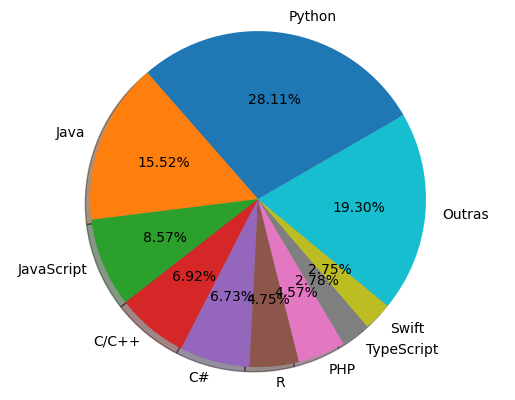
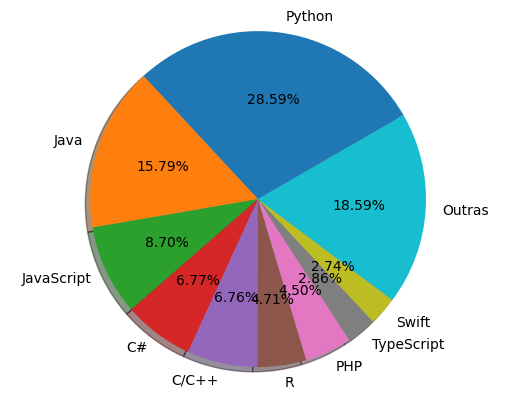
Build site at 2024-03-02 06:00:05 UTC

diff --git a/docs/popularidade/index.html b/docs/popularidade/index.html
@@ -35,7 +35,7 @@
 <meta name="twitter:card" content="summary" />
 <meta property="twitter:title" content="Introdução: python é popular!" />
 <script type="application/ld+json">
-{"@context":"https://schema.org","@type":"WebPage","author":{"@type":"Person","name":"Luiz T. F. Eleno"},"dateModified":"2023-11-02T03:00:07-03:00","description":"Computação Científica em Python - uma disciplina do curso de Engenharia Física da Escola de Engenharia de Lorena da Universidade de São Paulo - EEL USP","headline":"Introdução: python é popular!","url":"https://computeel.org/LOM3260/popularidade/"}</script>
+{"@context":"https://schema.org","@type":"WebPage","author":{"@type":"Person","name":"Luiz T. F. Eleno"},"dateModified":"2024-02-16T10:36:02-03:00","description":"Computação Científica em Python - uma disciplina do curso de Engenharia Física da Escola de Engenharia de Lorena da Universidade de São Paulo - EEL USP","headline":"Introdução: python é popular!","url":"https://computeel.org/LOM3260/popularidade/"}</script>
 <!-- End Jekyll SEO tag -->
 
   
@@ -1415,80 +1415,80 @@
     <tr>
       <td style="text-align: center">1</td>
       <td style="text-align: left">Python</td>
-      <td style="text-align: center">28.11</td>
-      <td style="text-align: center">+0.6</td>
+      <td style="text-align: center">28.59</td>
+      <td style="text-align: center">+1.0</td>
     </tr>
     <tr>
       <td style="text-align: center">2</td>
       <td style="text-align: left">Java</td>
-      <td style="text-align: center">15.52</td>
-      <td style="text-align: center">-1.0</td>
+      <td style="text-align: center">15.79</td>
+      <td style="text-align: center">-0.5</td>
     </tr>
     <tr>
       <td style="text-align: center">3</td>
       <td style="text-align: left">JavaScript</td>
-      <td style="text-align: center">8.57</td>
-      <td style="text-align: center">-1.0</td>
+      <td style="text-align: center">8.7</td>
+      <td style="text-align: center">-0.8</td>
     </tr>
     <tr>
       <td style="text-align: center">4</td>
-      <td style="text-align: left">C/C++</td>
-      <td style="text-align: center">6.92</td>
-      <td style="text-align: center">+0.1</td>
+      <td style="text-align: left">C#</td>
+      <td style="text-align: center">6.77</td>
+      <td style="text-align: center">-0.0</td>
     </tr>
     <tr>
       <td style="text-align: center">5</td>
-      <td style="text-align: left">C#</td>
-      <td style="text-align: center">6.73</td>
-      <td style="text-align: center">-0.1</td>
+      <td style="text-align: left">C/C++</td>
+      <td style="text-align: center">6.76</td>
+      <td style="text-align: center">-0.0</td>
     </tr>
     <tr>
       <td style="text-align: center">6</td>
       <td style="text-align: left">R</td>
-      <td style="text-align: center">4.75</td>
-      <td style="text-align: center">+0.7</td>
+      <td style="text-align: center">4.71</td>
+      <td style="text-align: center">+0.5</td>
     </tr>
     <tr>
       <td style="text-align: center">7</td>
       <td style="text-align: left">PHP</td>
-      <td style="text-align: center">4.57</td>
-      <td style="text-align: center">-0.6</td>
+      <td style="text-align: center">4.5</td>
+      <td style="text-align: center">-0.7</td>
     </tr>
     <tr>
       <td style="text-align: center">8</td>
       <td style="text-align: left">TypeScript</td>
-      <td style="text-align: center">2.78</td>
-      <td style="text-align: center">-0.0</td>
+      <td style="text-align: center">2.86</td>
+      <td style="text-align: center">+0.1</td>
     </tr>
     <tr>
       <td style="text-align: center">9</td>
       <td style="text-align: left">Swift</td>
-      <td style="text-align: center">2.75</td>
+      <td style="text-align: center">2.74</td>
       <td style="text-align: center">+0.5</td>
     </tr>
     <tr>
       <td style="text-align: center">10</td>
       <td style="text-align: left">Objective-C</td>
-      <td style="text-align: center">2.37</td>
+      <td style="text-align: center">2.4</td>
       <td style="text-align: center">+0.1</td>
     </tr>
     <tr>
       <td style="text-align: center">11</td>
       <td style="text-align: left">Rust</td>
-      <td style="text-align: center">2.23</td>
+      <td style="text-align: center">2.36</td>
       <td style="text-align: center">+0.3</td>
     </tr>
     <tr>
       <td style="text-align: center">12</td>
       <td style="text-align: left">Go</td>
-      <td style="text-align: center">2.04</td>
-      <td style="text-align: center">+0.1</td>
+      <td style="text-align: center">2.06</td>
+      <td style="text-align: center">+0.2</td>
     </tr>
     <tr>
       <td style="text-align: center">13</td>
       <td style="text-align: left">Kotlin</td>
-      <td style="text-align: center">1.75</td>
-      <td style="text-align: center">-0.1</td>
+      <td style="text-align: center">1.9</td>
+      <td style="text-align: center">+0.0</td>
     </tr>
     <tr>
       <td style="text-align: center">14</td>
@@ -1498,98 +1498,98 @@
     </tr>
     <tr>
       <td style="text-align: center">15</td>
-      <td style="text-align: left">Ada</td>
-      <td style="text-align: center">1.08</td>
-      <td style="text-align: center">+0.2</td>
+      <td style="text-align: left">Ruby</td>
+      <td style="text-align: center">0.97</td>
+      <td style="text-align: center">-0.0</td>
     </tr>
     <tr>
       <td style="text-align: center">16</td>
       <td style="text-align: left">Dart</td>
-      <td style="text-align: center">0.98</td>
+      <td style="text-align: center">0.97</td>
       <td style="text-align: center">+0.2</td>
     </tr>
     <tr>
       <td style="text-align: center">17</td>
-      <td style="text-align: left">Ruby</td>
-      <td style="text-align: center">0.98</td>
+      <td style="text-align: left">Ada</td>
+      <td style="text-align: center">0.94</td>
       <td style="text-align: center">-0.0</td>
     </tr>
     <tr>
       <td style="text-align: center">18</td>
       <td style="text-align: left">Powershell</td>
-      <td style="text-align: center">0.94</td>
-      <td style="text-align: center">+0.1</td>
+      <td style="text-align: center">0.9</td>
+      <td style="text-align: center">+0.0</td>
     </tr>
     <tr>
       <td style="text-align: center">19</td>
       <td style="text-align: left">VBA</td>
-      <td style="text-align: center">0.88</td>
+      <td style="text-align: center">0.87</td>
       <td style="text-align: center">-0.1</td>
     </tr>
     <tr>
       <td style="text-align: center">20</td>
       <td style="text-align: left">Lua</td>
-      <td style="text-align: center">0.85</td>
-      <td style="text-align: center">+0.3</td>
+      <td style="text-align: center">0.69</td>
+      <td style="text-align: center">+0.1</td>
     </tr>
     <tr>
       <td style="text-align: center">21</td>
       <td style="text-align: left">Scala</td>
-      <td style="text-align: center">0.59</td>
-      <td style="text-align: center">-0.0</td>
+      <td style="text-align: center">0.56</td>
+      <td style="text-align: center">-0.1</td>
     </tr>
     <tr>
       <td style="text-align: center">22</td>
       <td style="text-align: left">Abap</td>
-      <td style="text-align: center">0.57</td>
-      <td style="text-align: center">+0.1</td>
+      <td style="text-align: center">0.48</td>
+      <td style="text-align: center">+0.0</td>
     </tr>
     <tr>
       <td style="text-align: center">23</td>
-      <td style="text-align: left">Julia</td>
-      <td style="text-align: center">0.56</td>
-      <td style="text-align: center">+0.1</td>
+      <td style="text-align: left">Visual Basic</td>
+      <td style="text-align: center">0.43</td>
+      <td style="text-align: center">-0.1</td>
     </tr>
     <tr>
       <td style="text-align: center">24</td>
-      <td style="text-align: left">Visual Basic</td>
-      <td style="text-align: center">0.51</td>
+      <td style="text-align: left">Julia</td>
+      <td style="text-align: center">0.34</td>
       <td style="text-align: center">-0.1</td>
     </tr>
     <tr>
       <td style="text-align: center">25</td>
-      <td style="text-align: left">Perl</td>
-      <td style="text-align: center">0.33</td>
+      <td style="text-align: left">Groovy</td>
+      <td style="text-align: center">0.31</td>
       <td style="text-align: center">-0.0</td>
     </tr>
     <tr>
       <td style="text-align: center">26</td>
-      <td style="text-align: left">Groovy</td>
-      <td style="text-align: center">0.33</td>
-      <td style="text-align: center">-0.0</td>
+      <td style="text-align: left">Perl</td>
+      <td style="text-align: center">0.24</td>
+      <td style="text-align: center">-0.1</td>
     </tr>
     <tr>
       <td style="text-align: center">27</td>
       <td style="text-align: left">Haskell</td>
-      <td style="text-align: center">0.26</td>
+      <td style="text-align: center">0.22</td>
       <td style="text-align: center">-0.1</td>
     </tr>
     <tr>
       <td style="text-align: center">28</td>
       <td style="text-align: left">Cobol</td>
-      <td style="text-align: center">0.22</td>
-      <td style="text-align: center">-0.1</td>
+      <td style="text-align: center">0.17</td>
+      <td style="text-align: center">-0.2</td>
     </tr>
     <tr>
       <td style="text-align: center">29</td>
       <td style="text-align: left">Delphi/Pascal</td>
-      <td style="text-align: center">0.19</td>
-      <td style="text-align: center">+0.2</td>
+      <td style="text-align: center">0.14</td>
+      <td style="text-align: center">+0.1</td>
     </tr>
   </tbody>
 </table>
 
-<p class="small"><strong><em>Mundialmente em fevereiro de 2024, comparado a um ano antes</em></strong></p>
+<p class="small"><strong><em>Mundialmente em março de 2024, comparado a um ano antes</em></strong></p>
 
 
   
@@ -1597,7 +1597,7 @@
 
 <hr>
 <p class="small">
-  <i> Página atualizada em 16/02/24</i>
+  <i> Página atualizada em 02/03/24</i>
 </p>
 
 

diff --git a/docs/index.html b/docs/index.html
@@ -1436,7 +1436,7 @@
 
 </div>
 
-<p class="small"><strong><em>Última atualização: 16/02/2024 10:35:59</em></strong></p>
+<p class="small"><strong><em>Última atualização: 02/03/2024 03:00:02</em></strong></p>
 
 
 

diff --git a/material/sobre/01-introdução.md b/material/sobre/01-introdução.md
@@ -4,7 +4,7 @@ parent: sobre
 nav_order: 0
 tags: [introdução, pypl, python, popularity]
 permalink: /popularidade/
-timestamp: '16/02/24'
+timestamp: '02/03/24'
 ---
 
 Python é a linguagem mais popular e a que mais cresce mundialmente
@@ -18,35 +18,35 @@ O **índice PYPL** (*PopularitY of Programming Language*) é obtido analisando a
 
 | Posição	| Linguagem |	Fatia (%)	| Tendência (%) |
 |:-------:|:--------- |:-----:|:---------:|
-| 1 | Python |          28.11  | +0.6  |
-| 2 | Java |          15.52  | -1.0  |
-| 3 | JavaScript |          8.57  | -1.0  |
-| 4 | C/C++ |          6.92  | +0.1  |
-| 5 | C# |          6.73  | -0.1  |
-| 6 | R |          4.75  | +0.7  |
-| 7 | PHP |          4.57  | -0.6  |
-| 8 | TypeScript |          2.78  | -0.0  |
-| 9 | Swift |          2.75  | +0.5  |
-| 10 | Objective-C |          2.37  | +0.1  |
-| 11 | Rust |          2.23  | +0.3  |
-| 12 | Go |          2.04  | +0.1  |
-| 13 | Kotlin |          1.75  | -0.1  |
+| 1 | Python |          28.59  | +1.0  |
+| 2 | Java |          15.79  | -0.5  |
+| 3 | JavaScript |          8.7  | -0.8  |
+| 4 | C# |          6.77  | -0.0  |
+| 5 | C/C++ |          6.76  | -0.0  |
+| 6 | R |          4.71  | +0.5  |
+| 7 | PHP |          4.5  | -0.7  |
+| 8 | TypeScript |          2.86  | +0.1  |
+| 9 | Swift |          2.74  | +0.5  |
+| 10 | Objective-C |          2.4  | +0.1  |
+| 11 | Rust |          2.36  | +0.3  |
+| 12 | Go |          2.06  | +0.2  |
+| 13 | Kotlin |          1.9  | +0.0  |
 | 14 | Matlab |          1.64  | -0.1  |
-| 15 | Ada |          1.08  | +0.2  |
-| 16 | Dart |          0.98  | +0.2  |
-| 17 | Ruby |          0.98  | -0.0  |
-| 18 | Powershell |          0.94  | +0.1  |
-| 19 | VBA |          0.88  | -0.1  |
-| 20 | Lua |          0.85  | +0.3  |
-| 21 | Scala |          0.59  | -0.0  |
-| 22 | Abap |          0.57  | +0.1  |
-| 23 | Julia |          0.56  | +0.1  |
-| 24 | Visual Basic |          0.51  | -0.1  |
-| 25 | Perl |          0.33  | -0.0  |
-| 26 | Groovy |          0.33  | -0.0  |
-| 27 | Haskell |          0.26  | -0.1  |
-| 28 | Cobol |          0.22  | -0.1  |
-| 29 | Delphi/Pascal |          0.19  | +0.2  |
+| 15 | Ruby |          0.97  | -0.0  |
+| 16 | Dart |          0.97  | +0.2  |
+| 17 | Ada |          0.94  | -0.0  |
+| 18 | Powershell |          0.9  | +0.0  |
+| 19 | VBA |          0.87  | -0.1  |
+| 20 | Lua |          0.69  | +0.1  |
+| 21 | Scala |          0.56  | -0.1  |
+| 22 | Abap |          0.48  | +0.0  |
+| 23 | Visual Basic |          0.43  | -0.1  |
+| 24 | Julia |          0.34  | -0.1  |
+| 25 | Groovy |          0.31  | -0.0  |
+| 26 | Perl |          0.24  | -0.1  |
+| 27 | Haskell |          0.22  | -0.1  |
+| 28 | Cobol |          0.17  | -0.2  |
+| 29 | Delphi/Pascal |          0.14  | +0.1  |
 
-***Mundialmente em fevereiro de 2024, comparado a um ano antes***
+***Mundialmente em março de 2024, comparado a um ano antes***
 {: .small}
